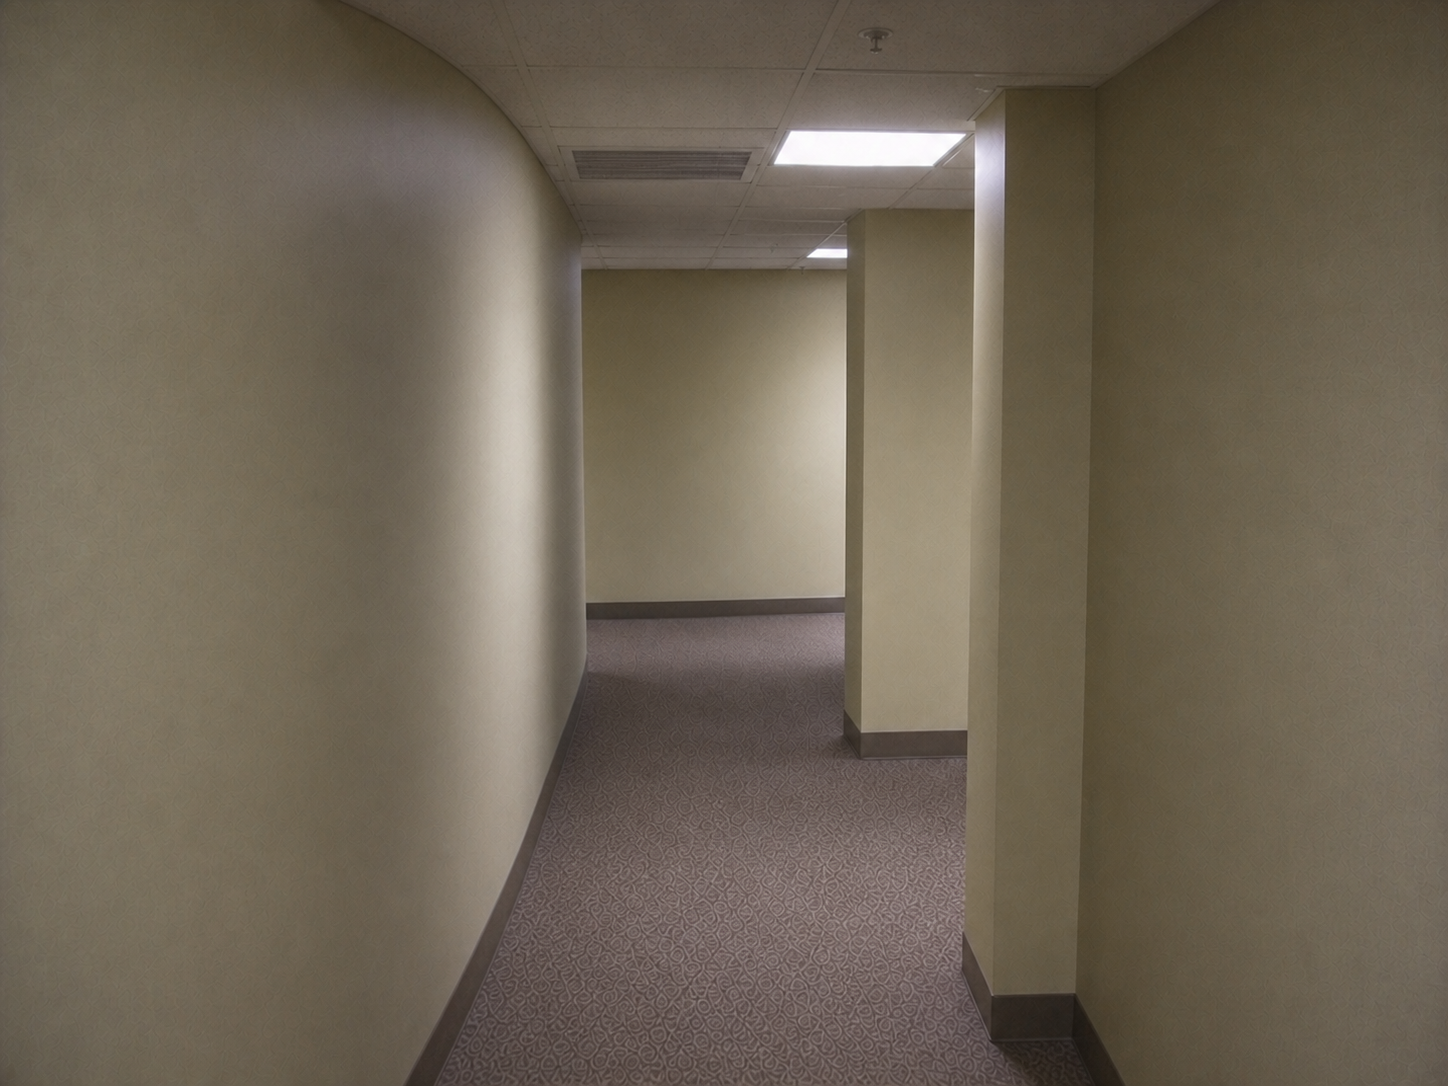
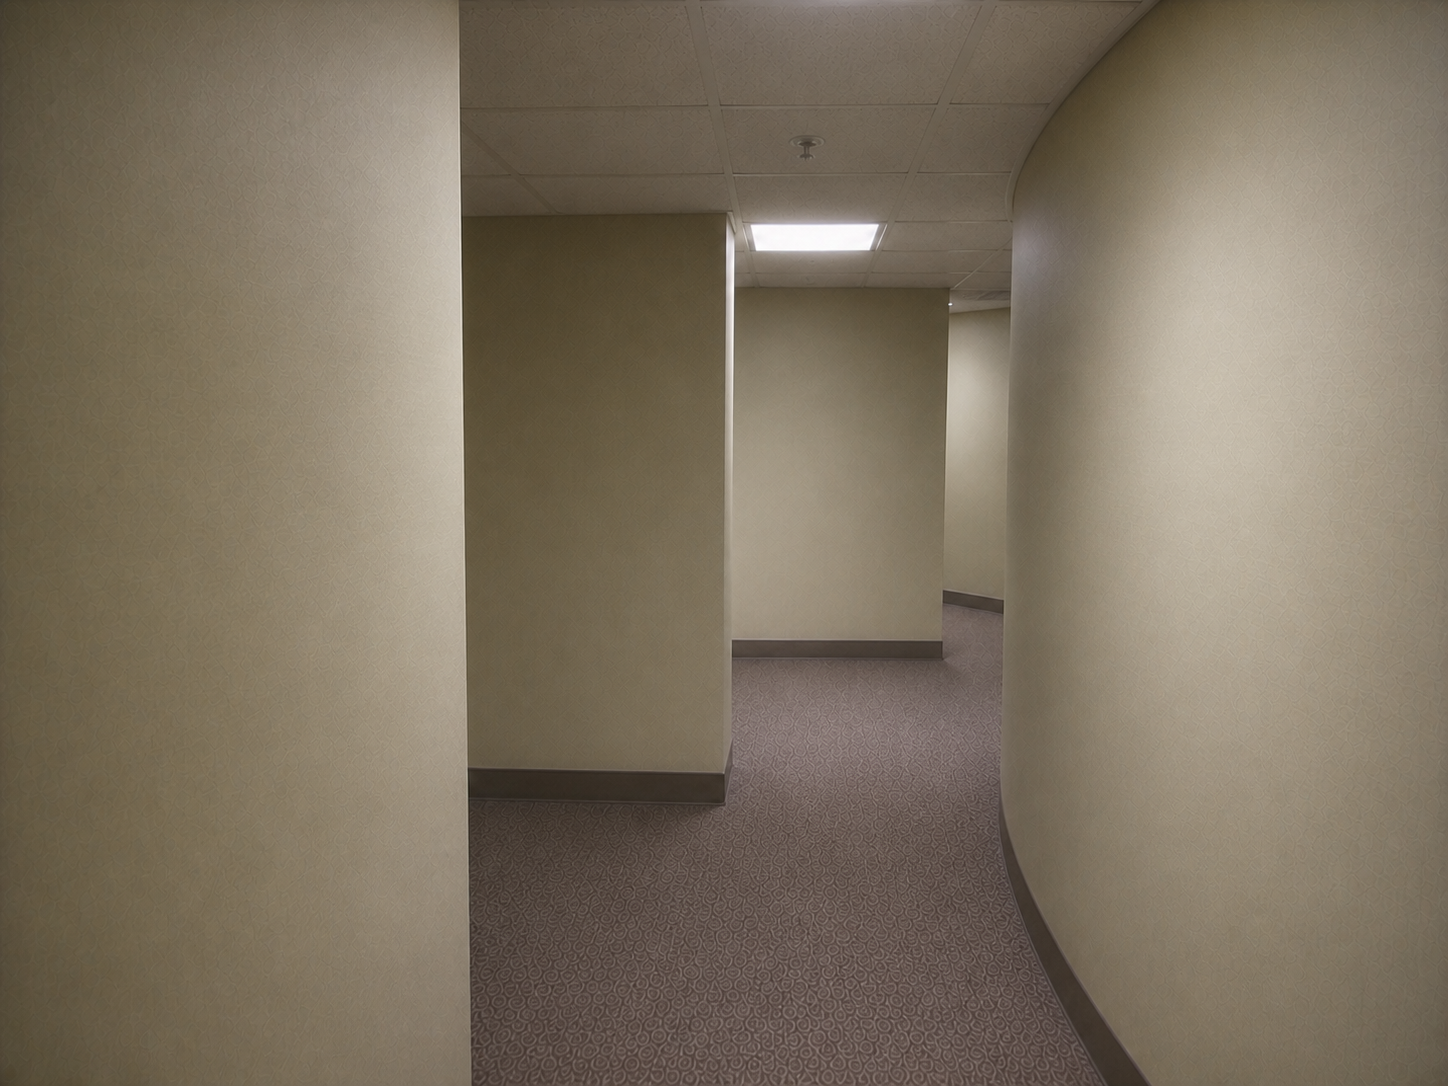
feat: refine passage masks and B branch

diff --git a/docs/branch-expansion-report.md b/docs/branch-expansion-report.md
@@ -1,8 +1,8 @@
-# Level 0 branch expansion report — 0.3.0
+# Level 0 branch expansion report — 0.4.0
 
 ## Outcome
 
-The opening now leads to two fixed three-movement branches with seven total playable scenes. The A branch widens gradually through `L0-0002A → L0-0003A → L0-0004A`; the B branch stays compressed through corrected `L0-0002B → L0-0003B → L0-0004B`. The two `L0-0004*` paths remain unresolved production frontiers, but they now terminate in a provisional content-boundary sequence.
+The opening leads to two fixed three-movement branches with seven total playable scenes. The A branch widens gradually through `L0-0002A → L0-0003A → L0-0004A`; the B branch stays compressed through corrected `L0-0002B → L0-0003B → L0-0004B`. `L0-0003B` was replaced in 0.4.0 because its former view repeated the framing and wall rhythm of `L0-0002B` too closely. The replacement visibly passes the near obstruction and turns into a staggered pocket before `L0-0004B`.
 
 No reverse edge, runtime randomness, branch merge, entity, or rare level boundary was introduced. A temporary abstract symbol and reset epilogue now make the current content limit testable without inventing more canon.
 
@@ -10,21 +10,22 @@ No reverse edge, runtime randomness, branch merge, entity, or rare level boundar
 
 - `L0-0001` and `L0-0002A` retain provisional approval.
 - `L0-0002B` was replaced to preserve the opening soffit in the immediate foreground.
-- `L0-0003A`, `L0-0004A`, `L0-0003B`, and `L0-0004B` are new reference-grounded 1448×1086 PNG scenes.
+- `L0-0003A`, `L0-0004A`, and `L0-0004B` retain their reference-grounded 1448×1086 PNG scenes.
+- `L0-0003B` retains its stable scene ID and URL but now uses a new 1448×1086 raster grounded by both adjacent B-branch scenes.
 - The replacement and all four new scenes require human canon review.
 - The first playable vertical slice remains recoverable at Git commit `41fb610`.
 
 ## Data and navigation
 
-The registry version is `vertical-slice-0.3.0`, intentionally invalidating earlier development saves. Scene records now include branch ownership, provenance, approval and review state, continuity anchors, and recent changes. Every active target has exactly one matching source scene/path, and the frontier registry mirrors the two pending endpoint paths at graph depth 3.
+The registry version is `vertical-slice-0.4.0`, intentionally invalidating earlier development saves. Scene records include branch ownership, provenance, approval and review state, continuity anchors, and recent changes. Every active target has exactly one matching source scene/path, and the frontier registry mirrors the two pending endpoint paths at graph depth 3.
 
-The follow-up-scene SVG polygons were redrawn around only the distant architectural openings; none extends into the bottom foreground. They remain invisible in normal play. On localhost or with `?dev=1`, a `MASKS OFF/ON` toggle exposes colored polygons, path IDs, pointer coordinates, and current scene/view data. Debug mode deliberately blocks navigation so mask inspection cannot change progress.
+Every playable path polygon now covers the full visible architectural opening, from its ceiling line down to its threshold, instead of selecting a wedge of floor. The overlays remain invisible in normal play. Developer inspection is opt-in through `?dev=1`; localhost alone no longer exposes the control. When enabled, the `MASKS OFF/ON` toggle shows colored polygons, path IDs, pointer coordinates, and current scene/view data without disabling path navigation.
 
-Selecting either pending path now saves a boundary state and opens the provisional abstract symbol. Selecting the symbol clears the saved run and shows the no-route reset epilogue. The next reload returns to `L0-0001`.
+Selecting either pending path saves a boundary state and opens the provisional abstract symbol. The symbol is an RGBA asset with a transparent background, composited over the page's black boundary field. Selecting it clears the saved run and shows the no-route reset epilogue. The next reload returns to `L0-0001`.
 
 ## Verification contract
 
-The validator now checks required production metadata, movement/status values, exact 4:3 declarations, 44 CSS-pixel mobile target minima at a 320px viewport, missing targets, provenance mismatch, merges, cycles, unreachable scenes, frontier/world-version agreement, frontier depth, registry completeness, and the signature and actual dimensions of all seven scene PNGs plus both boundary PNGs. Fourteen automated model tests pass.
+The validator checks required production metadata, movement/status values, exact 4:3 declarations, 44 CSS-pixel mobile target minima at a 320px viewport, passage-opening mask geometry, missing targets, provenance mismatch, merges, cycles, unreachable scenes, frontier/world-version agreement, frontier depth, registry completeness, and the signature and actual dimensions of all seven scene PNGs plus both boundary PNGs. It additionally requires the boundary symbol to be RGBA. Fifteen automated model tests pass.
 
 ## Still unresolved
 

diff --git a/docs/generation-prompts.md b/docs/generation-prompts.md
@@ -165,6 +165,41 @@ Move a few meters through the narrow channel, passing the offset pier and follow
 Technical correction only: preserve the generated scene, composition, camera, geometry, lighting, textures, and single route while returning an exact landscape 4:3 raster. Add or remove no content.
 ```
 
+## 0.4.0 B-branch and transparent-boundary revisions
+
+Both revisions used the built-in `$imagegen` workflow. The playable scene was generated directly from its two adjacent B-branch references. The symbol used a chroma-key edit followed by the skill-provided local alpha-removal script; the resulting project asset is an RGBA PNG.
+
+### L0-0003B replacement
+
+Direct source reference: `L0-0002B.png`. Downstream continuity reference: `L0-0004B.png`. Output and final saved asset: `exec-cea7b0bb-9d64-442a-9d82-bfea4d970931.png`, 1448×1086.
+
+```text
+Use case: photorealistic-natural
+Asset type: replacement playable follow-up scene L0-0003B
+Input images: Image 1 is the direct source scene L0-0002B after entering the compressed B passage. Image 2 is the fixed downstream scene L0-0004B and is only a continuity destination reference, not an edit target.
+Primary request: Generate a genuinely progressed intermediate viewpoint one movement after Image 1 and one movement before Image 2. The camera has walked several meters past the near right-side pier from Image 1 and completed a clearer rightward bend, so the previous near pier and exact Image 1 composition are no longer repeated. Reveal a short staggered circulation pocket: a close wall mass now frames the left foreground, a shallow lateral recess is visible at mid-left, and one narrow traversable opening continues at medium depth toward the right-center, logically preparing the alternating left wall masses and curved right boundary seen in Image 2.
+Continuity anchors: Preserve the same Level 0 yellow-beige wallpaper, patterned brown-beige carpet, dark vinyl base trim, acoustic ceiling grid, flat fluorescent fixture family, standing eye height, moderate lens, and late-1990s to mid-2000s budget consumer-digital photographic character. Keep the B branch compressed and dimmer than the A branch.
+Spatial distinction: The new scene must be unmistakably different from Image 1 at a glance: no same corridor framing, no same central wall face, no same near-right pillar, and no composition that looks like a tiny forward crop. Show that the player has passed the obstacle and changed orientation. Still exactly one route, through a clearly bounded vertical opening at medium depth rather than a large carpet wedge.
+Composition/framing: Exact landscape 4:3, level camera, approximately 40 mm full-frame equivalent, human eye height about 1.65 m. The single route opening should be visually legible as a tall architectural gap suitable for a polygon mask over the opening itself.
+Lighting/mood: Muted flat fluorescent light, familiar, compressed, still and faintly unsettling; no dramatic darkness.
+Constraints: Small direct-adjacent spatial change, not a teleport. Mostly empty. No branch, door, landmark, new facility type, new level, text, UI, people, entities, bodies, gore, occult imagery, documents, windows, furniture, debris, strong ruin, dramatic horror, VHS/CCTV/glitch overlay, fisheye, arrows, glow, or highlighted route.
+```
+
+### Transparent content-boundary symbol
+
+Edit target: the original 0.3.0 symbol. Chroma output: `exec-c01f1385-5c29-4c52-83a3-e57b3c235119.png`. Post-process: `remove_chroma_key.py --auto-key border --soft-matte --transparent-threshold 12 --opaque-threshold 220 --despill`. Final saved asset: `content-boundary-symbol.png`, RGBA 1448×1086.
+
+```text
+Use case: background-extraction
+Asset type: transparent content-boundary glyph source
+Input images: Image 1 is the exact symbol edit target.
+Primary request: Preserve the exact off-white impossible rectilinear floor-plan knot from Image 1—same shape, line thickness, scale, centered position, worn material texture, and 4:3 canvas—but replace only the black background with a perfectly flat solid #00ff00 chroma-key background for local removal.
+Scene/backdrop: One uniform #00ff00 field with no shadows, gradients, vignette, texture, reflections, lighting variation, or black remnants.
+Subject: The existing off-white worn glyph only.
+Composition/framing: Exact landscape 4:3; glyph remains centered at the same size with generous empty margin.
+Constraints: Change only the background. Keep the glyph fully opaque with crisp antialiased edges. Do not use #00ff00 inside the glyph. No cast shadow, glow, halo, border, text, watermark, additional marks, or restyling.
+```
+
 ## 0.3.0 content-boundary operations
 
 Both assets below used the built-in `$imagegen` workflow as independent generations. They are provisional boundary assets, not new playable Level 0 scenes. The generated PNGs were copied without raster edits into `public/boundary/`.

diff --git a/docs/content-boundary-report.md b/docs/content-boundary-report.md
@@ -1,19 +1,19 @@
-# Content-boundary and mask-debug report — 0.3.0
+# Content-boundary and mask-debug report — 0.4.0
 
 ## Diagnosis
 
-The scene raster, SVG overlay, and stage had matching browser rectangles, so the reported low click behavior was not a CSS or viewBox offset. The follow-up polygons themselves extended from the distant opening into the bottom foreground. Every non-root polygon is now constrained to the visible opening and capped above 80% of the source-image height on both desktop and mobile definitions.
+The scene raster, SVG overlay, and stage had matching browser rectangles, so the reported low click behavior was not a CSS or viewBox offset. The polygons themselves selected floor wedges instead of the passage volumes. Every playable polygon is now drawn over the visible vertical opening, from ceiling line to threshold, in both desktop and mobile definitions.
 
 ## Development inspection mode
 
-The `MASKS OFF/ON` control appears only on localhost or when the page is opened with `?dev=1`. Pressing `D` toggles the same mode. Enabled masks have distinct translucent colors, strokes, and fixed path-ID labels. A readout shows the current scene or boundary, path ID, and image-space pointer coordinates. Path selection is disabled while masks are visible.
+The `MASKS OFF/ON` control appears only when the page is opened with `?dev=1`; ordinary localhost and deployed URLs keep it hidden. Pressing `D` toggles the same mode only while development tools are available. Enabled masks have distinct translucent colors, strokes, and fixed path-ID labels. A readout shows the current scene or boundary, path ID, and image-space pointer coordinates. Path selection remains active while masks are visible, so the whole route can be inspected without leaving debug mode.
 
 ## Current content limit
 
 Pending paths at `L0-0004A` and `L0-0004B` both enter the same non-canon-expanding boundary sequence:
 
 1. The pending path ID and boundary state are persisted.
-2. A black boundary screen displays one original rectilinear glyph with one matching click region.
+2. A black boundary screen composites one transparent-background rectilinear glyph with one matching click region.
 3. Clicking the glyph clears local progress and displays a no-route photographic epilogue whose carpet folds up the dead wall.
 4. Reloading after the epilogue starts again at `L0-0001`.
 
@@ -22,7 +22,9 @@ The glyph and epilogue are provisional and still require human canon approval. T
 ## Browser verification
 
 - Boundary state survived reload.
-- The glyph raster loaded at its exact declared 1448×1086 dimensions and had one accessible link.
+- The glyph raster loaded as an exact 1448×1086 RGBA PNG, showed no rectangular backdrop, and had one accessible link.
 - The glyph link displayed the reset epilogue with no movement paths.
 - Reload after the epilogue returned to the opening scene with both root paths.
-- The narrowed `L0-0004B` mask covered only the distant opening in developer mode.
+- Normal localhost hid all developer controls; `?dev=1` exposed them.
+- With masks visible, both A and B paths remained clickable through their full sequences.
+- Every desktop mask covered its passage opening instead of the foreground carpet.

diff --git a/docs/asset-replacement-history.md b/docs/asset-replacement-history.md
@@ -17,3 +17,15 @@
 - Initial generation: `exec-a5405771-a844-41c5-8004-aac9908468af.png` at 1449×1086.
 - Corrected generation: `exec-e2e42df2-cd04-4154-a440-660d114e502b.png` at 1448×1086.
 - Reason: enforce the exact 4:3 playable-asset contract without changing the scene design.
+
+## L0-0003B — 0.4.0 spatial-progression correction
+
+- Stable scene ID: `L0-0003B`
+- Stable incoming path: `L0-0002B-P1`
+- Stable asset URL: `/scenes/L0-0003B/final/L0-0003B.png`
+- Previous asset recovery point: the parent of the 0.4.0 implementation commit
+- Replacement generation: `exec-cea7b0bb-9d64-442a-9d82-bfea4d970931.png`
+- References: direct source `L0-0002B`; downstream continuity target `L0-0004B`
+- Reason: the former scene repeated `L0-0002B`'s corridor framing, central wall face, and near-right obstruction too closely. The replacement passes that obstruction, changes orientation, and introduces a staggered pocket while retaining one compressed B-branch route.
+- Data effects: updated continuity metadata, path description, path screen location, opening-shaped masks, and scene-change notes while retaining IDs and navigation provenance.
+- Approval: provisional-generated; human canon review remains required.
